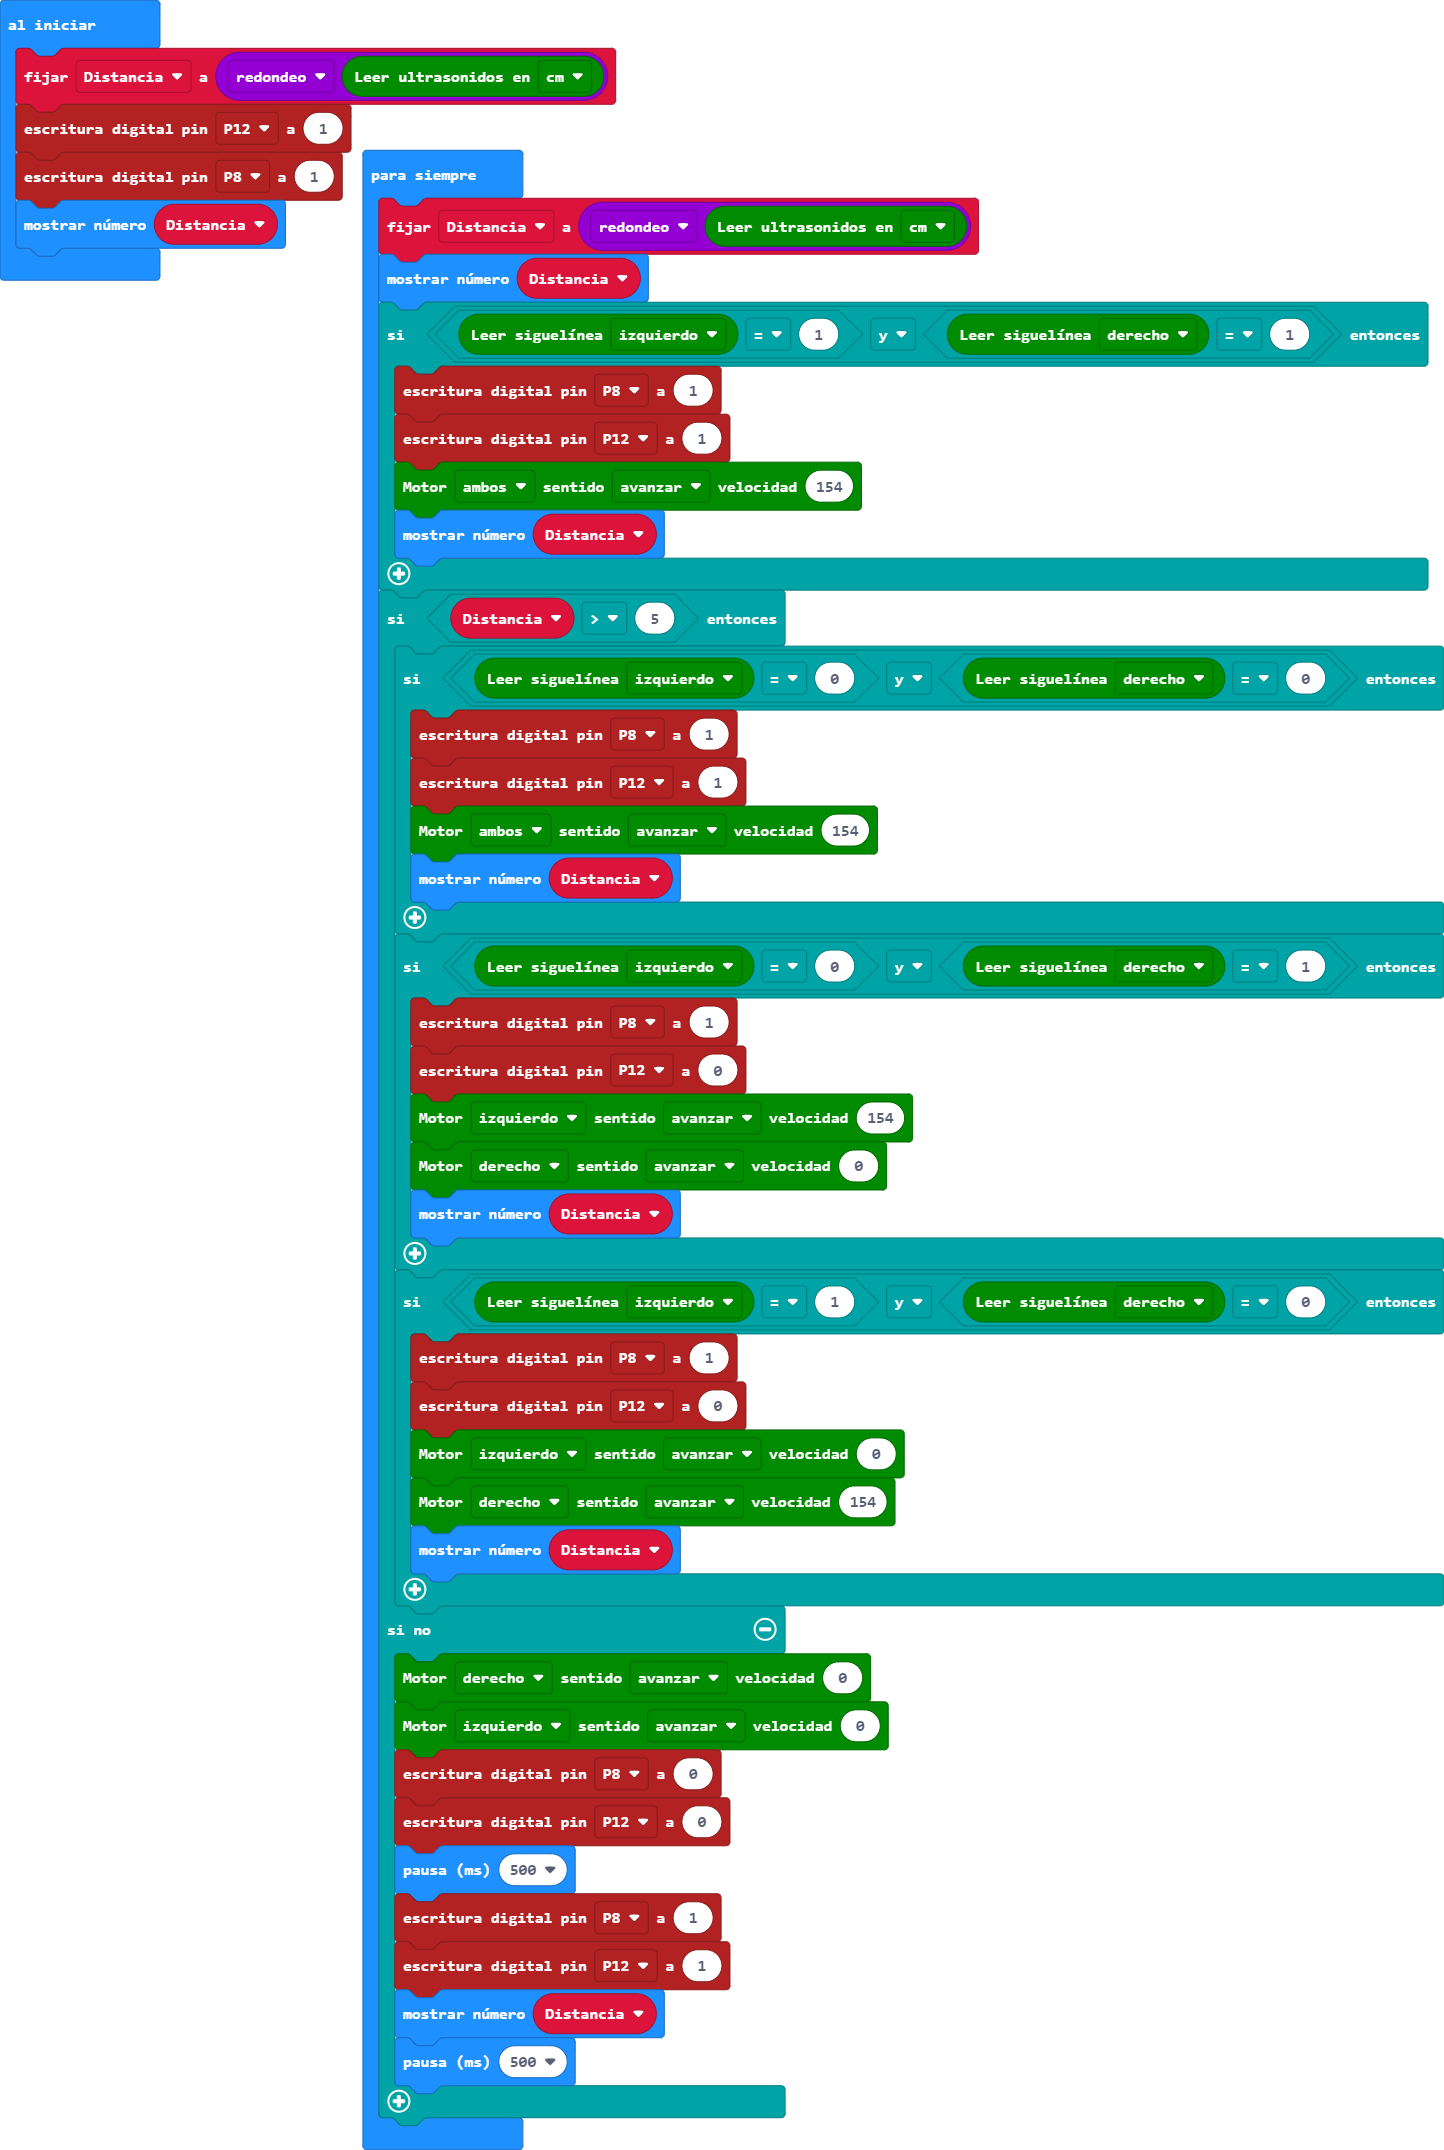
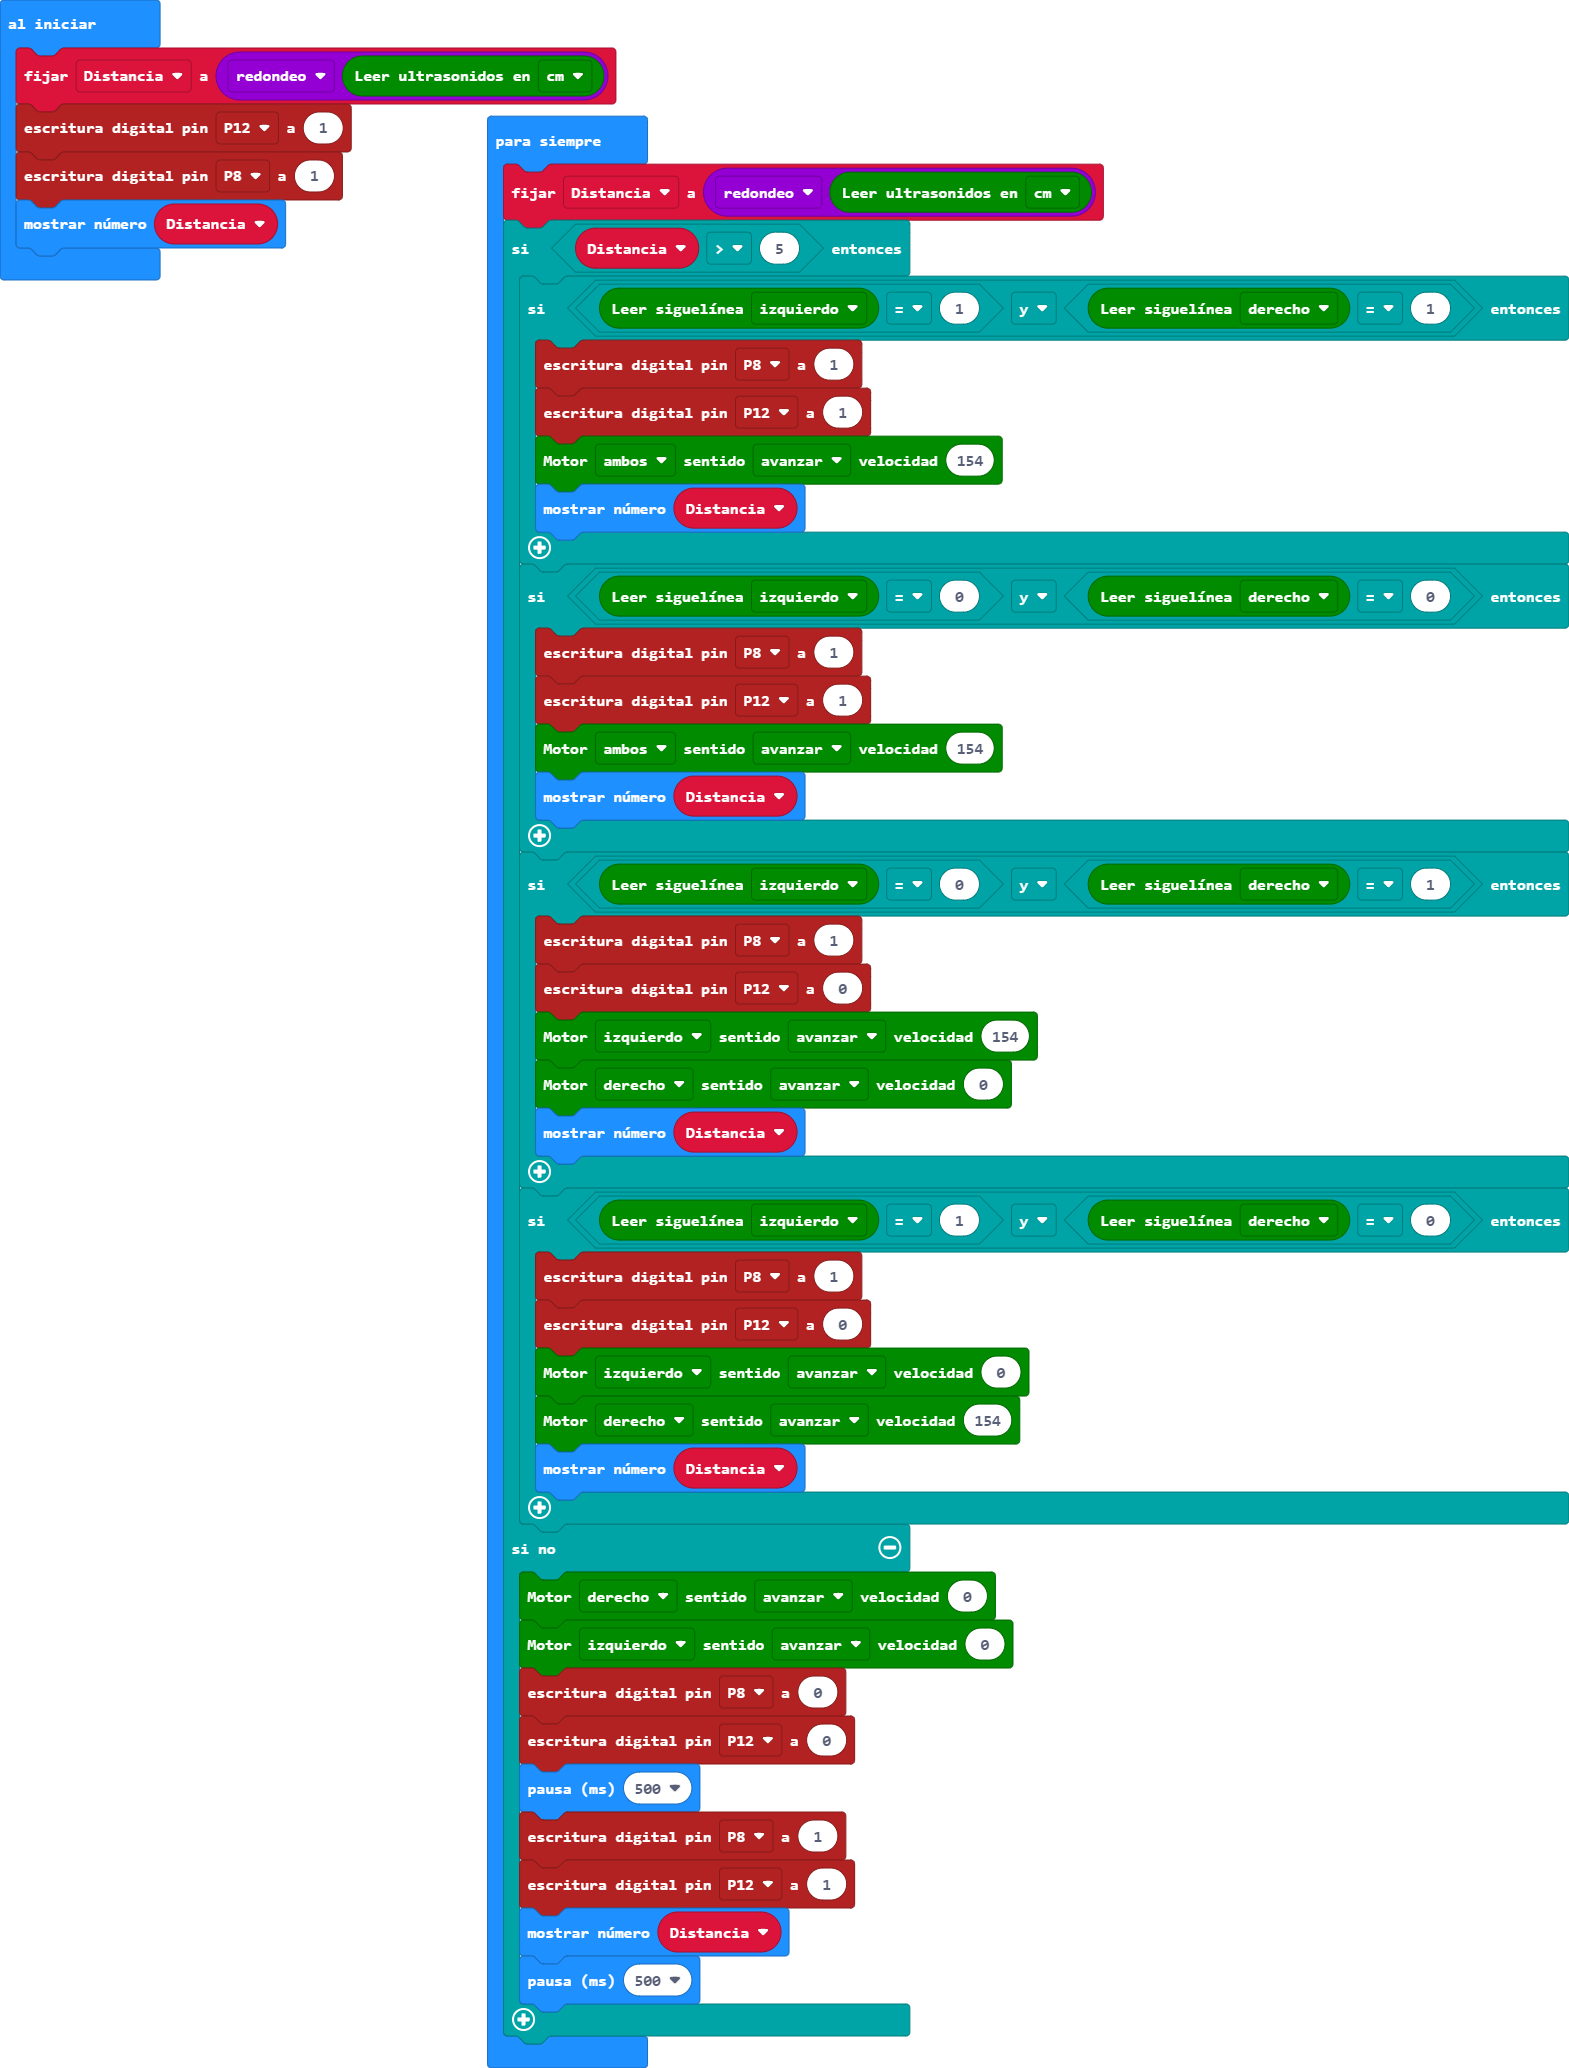
Actualizar main.blocks, main.ts

diff --git a/main.ts b/main.ts
@@ -4,14 +4,13 @@ pins.digitalWritePin(DigitalPin.P8, 1)
 basic.showNumber(Distancia)
 basic.forever(function () {
     Distancia = Math.round(maqueen.Ultrasonic(PingUnit.Centimeters))
-    basic.showNumber(Distancia)
-    if (maqueen.readPatrol(maqueen.Patrol.PatrolLeft) == 1 && maqueen.readPatrol(maqueen.Patrol.PatrolRight) == 1) {
-        pins.digitalWritePin(DigitalPin.P8, 1)
-        pins.digitalWritePin(DigitalPin.P12, 1)
-        maqueen.motorRun(maqueen.Motors.All, maqueen.Dir.CW, 154)
-        basic.showNumber(Distancia)
-    }
     if (Distancia > 5) {
+        if (maqueen.readPatrol(maqueen.Patrol.PatrolLeft) == 1 && maqueen.readPatrol(maqueen.Patrol.PatrolRight) == 1) {
+            pins.digitalWritePin(DigitalPin.P8, 1)
+            pins.digitalWritePin(DigitalPin.P12, 1)
+            maqueen.motorRun(maqueen.Motors.All, maqueen.Dir.CW, 154)
+            basic.showNumber(Distancia)
+        }
         if (maqueen.readPatrol(maqueen.Patrol.PatrolLeft) == 0 && maqueen.readPatrol(maqueen.Patrol.PatrolRight) == 0) {
             pins.digitalWritePin(DigitalPin.P8, 1)
             pins.digitalWritePin(DigitalPin.P12, 1)
